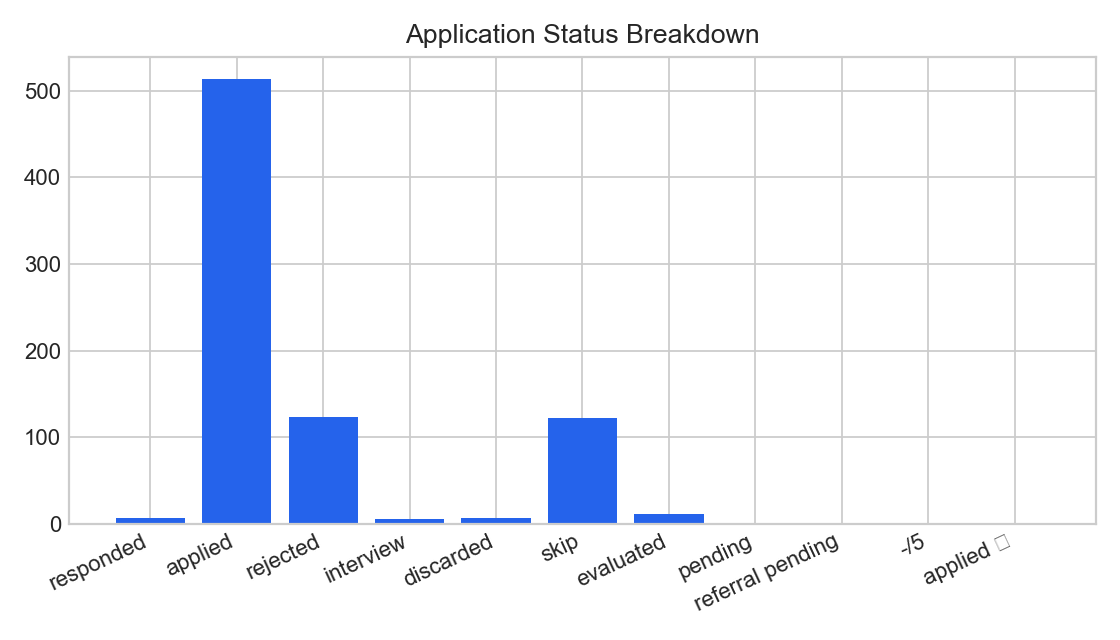
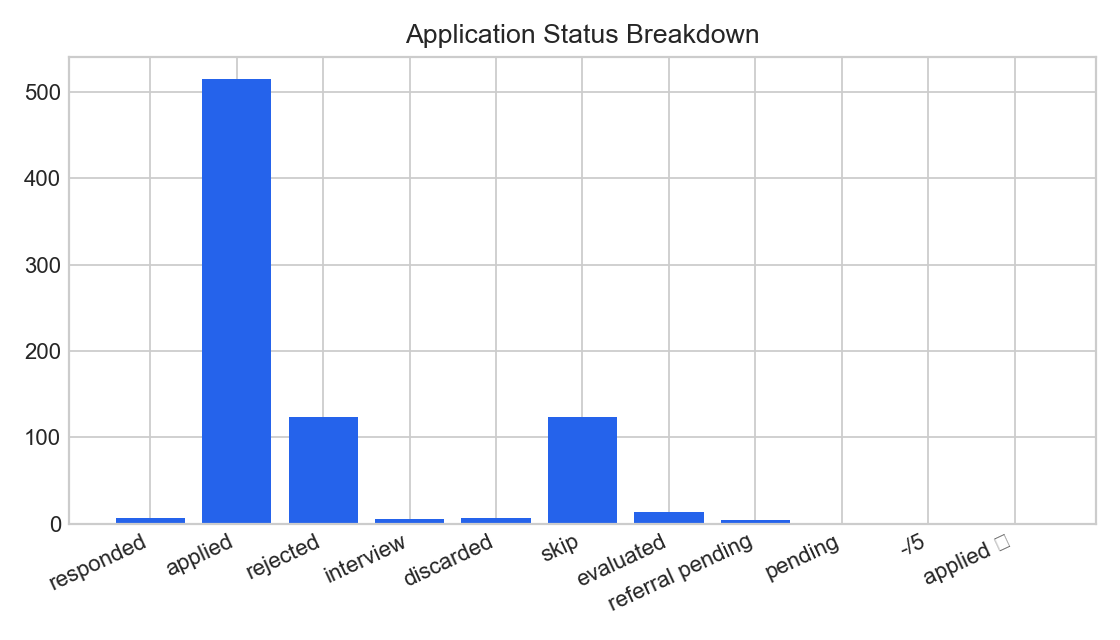
Refresh analytics: 949 merged roles (Tesla SCDA/FP&A/BI Analyst referral prep, SanMar, LinkedIn Strategic Finance/Insights APM referral prep added; tracker cross-checked)

diff --git a/data/daily_summary.md b/data/daily_summary.md
@@ -1,6 +1,6 @@
 # Daily Job Search Summary
 
-_Last refreshed: 2026-08-26T05:39:55-07:00_
+_Last refreshed: 2026-08-27T04:52:54-07:00_
 
 ## Positioning
 
@@ -10,40 +10,40 @@ _Last refreshed: 2026-08-26T05:39:55-07:00_
 
 ## Snapshot
 
-- Tracked roles: 942
-- Active roles: 536
+- Tracked roles: 949
+- Active roles: 539
 - Response rate: 1.7%
 - LinkedIn outreach sent: 28
 - Pending pipeline items: 155
 - Recommended pipeline items: 36
-- Average evaluated score: 7.31
+- Average evaluated score: 7.26
 
 ## Status Breakdown
 
 - -/5: 1
-- applied: 514
+- applied: 515
 - applied ✅: 1
 - discarded: 6
-- evaluated: 11
+- evaluated: 13
 - interview: 5
 - pending: 1
-- referral pending: 1
+- referral pending: 4
 - rejected: 123
 - responded: 6
-- skip: 122
+- skip: 123
 
 ## Recent Activity
 
+- 2026-08-26: LinkedIn | Associate, Strategic Finance - Online Subscriptions | evaluated
+- 2026-08-26: LinkedIn | Insights Associate Program Manager | evaluated
+- 2026-08-26: SHEIN | Database Engineer | skip
+- 2026-08-26: SanMar | Data Analyst, MH&P | applied
+- 2026-08-26: Tesla | Data Analyst, Supply Chain | referral pending
+- 2026-08-26: Tesla | Analyst, FP&A Business Operations | referral pending
+- 2026-08-26: Tesla | Business Intelligence Analyst | referral pending
 - 2026-08-25: Garner | Data Analyst I | applied
 - 2026-08-25: HR&A | Analyst, Real Estate | applied
 - 2026-08-25: HR&A Advisors | Research Analyst, Real Estate | applied
-- 2026-08-25: 荣耀终端股份有限公司 | AI数据工程师（流程IT与运营部） | pending
-- 2026-08-25: Tesla | Data Analyst, People Products | referral pending
-- 2026-08-25: Garner Health | AI-Native Data Analyst I | applied
-- 2026-08-25: Carrot Fertility | Business Intelligence Analyst | applied
-- 2026-08-25: Intel | AI Software Development Engineer (JR0286123) | applied
-- 2026-08-25: Intel | Data center SW Engineering / Cloud Application Development Engineer (JR0286403) | applied
-- 2026-08-25: Intel | AI Framework Engineer - QA & Benchmarking (JR0286411) | applied
 
 ## Recommended Opportunity Queue
 
@@ -65,13 +65,13 @@ _Last refreshed: 2026-08-26T05:39:55-07:00_
 
 ## Needs Attention
 
-- Microsoft | Applied Scientist: Microsoft AI Development Acceleration Program | 167 days with no response
-- Nvidia | Deep Learning Architect, LLM Inference - New College Grad 2026 | 167 days with no response
-- Google | Software Engineer II, Early Career | 163 days with no response
-- Apple | AIML - Machine Learning Research | 156 days with no response
-- Amazon | Data Engineer II | 154 days with no response
-- Amazon | Software Development Engineer – Amazon Leo (US) | 154 days with no response
-- Amazon | Software Development Engineer - 2026 (US) | 154 days with no response
-- Amazon | 软件开发工程师, (New graduate or Entry-level Engineer, 0-2 Years) | 154 days with no response
-- Esri | Product Test Engineer II - Feature Server | 154 days with no response
-- Esri | Product Engineer II - ArcGIS Enterprise Sharing API | 154 days with no response
+- Microsoft | Applied Scientist: Microsoft AI Development Acceleration Program | 168 days with no response
+- Nvidia | Deep Learning Architect, LLM Inference - New College Grad 2026 | 168 days with no response
+- Google | Software Engineer II, Early Career | 164 days with no response
+- Apple | AIML - Machine Learning Research | 157 days with no response
+- Amazon | Data Engineer II | 155 days with no response
+- Amazon | Software Development Engineer – Amazon Leo (US) | 155 days with no response
+- Amazon | Software Development Engineer - 2026 (US) | 155 days with no response
+- Amazon | 软件开发工程师, (New graduate or Entry-level Engineer, 0-2 Years) | 155 days with no response
+- Esri | Product Test Engineer II - Feature Server | 155 days with no response
+- Esri | Product Engineer II - ArcGIS Enterprise Sharing API | 155 days with no response
